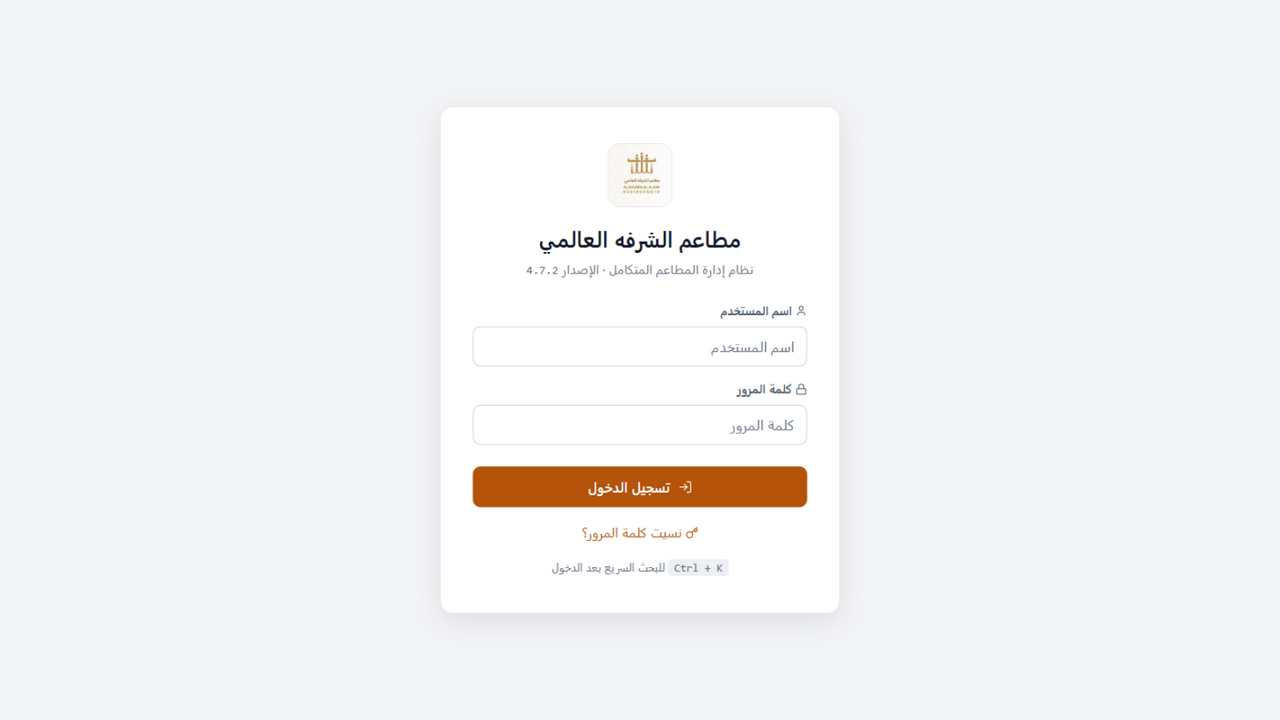
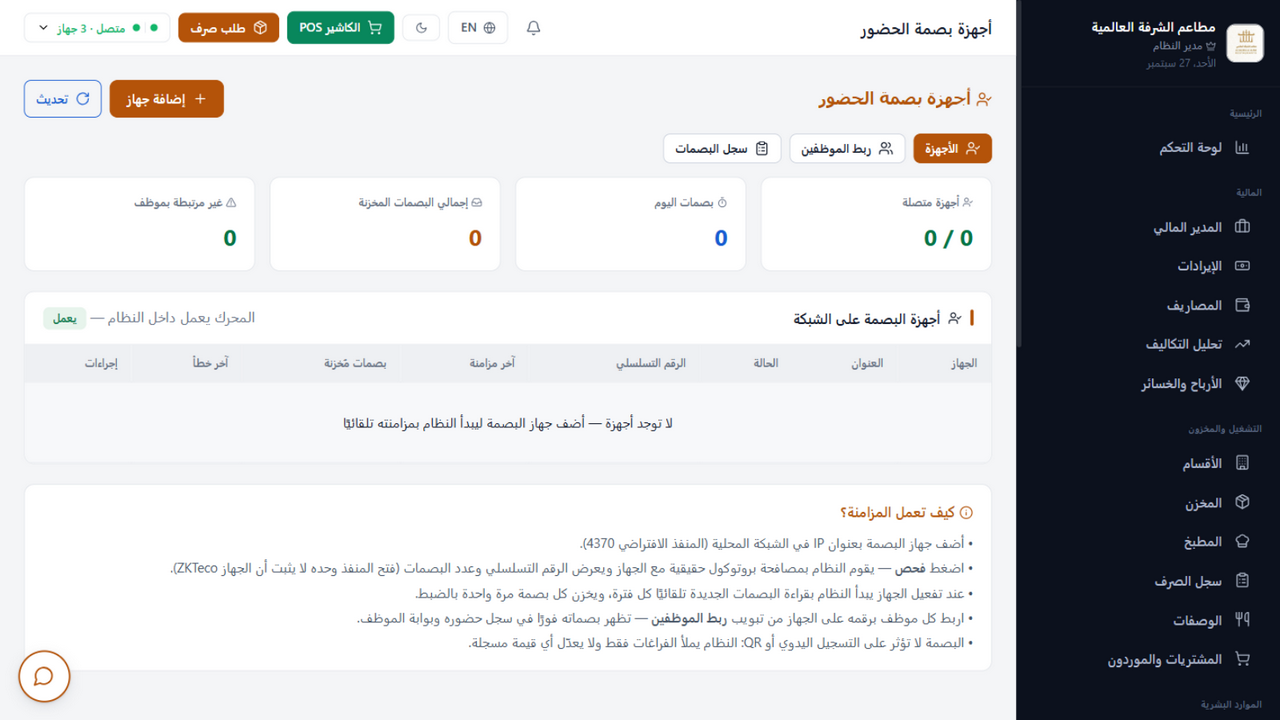
docs(migration): record extractions 005-010, cache-busting and eval-order rules

diff --git a/docs/esm-migration/MIGRATION_CHANGE_LOG.md b/docs/esm-migration/MIGRATION_CHANGE_LOG.md
@@ -75,4 +75,30 @@
 
 ---
 
-## EXTRACTION-005 — (التالي المخطط: core/state + core/api — لم يُنفذ بعد)
+## EXTRACTIONS 005–010 — الدفعة الكبيرة (العمود الفقري + أول وحدات المزايا)
+
+| # | الوحدة | المحتوى المنقول (verbatim مُتحقق) | الجسر | ملاحظات خاصة |
+|---|---|---|---|---|
+| 005 | `core/state.js` | `STATE` (36 مفتاحًا) + `PERSISTED_ENTITIES` (24) + `ROLE_ENTITY_EXCLUSIONS` — 40 سطرًا | BRIDGE-005 | أُزيل `window.STATE=STATE` من الوحدة (تأثير جانبي وقت التقييم يناقض التصميم — الجسر في main.js) |
+| 006 | `core/api.js` | `API_BASE` + `apiFetch` (50 سطرًا: مصادقة/مهلة 30ث/إعادة 429/دوران مفتاح) + `SERVER_CODE_AR` + `serverErrorInfo` — 74 سطرًا | BRIDGE-006 | **حسم قبل النقل:** `SERVER_CODE_AR` كان `const` غير مؤتمت العولمة — أُدرج في الوحدة وإلا انكسر جسر الأخطاء |
+| 007 | `core/config.js` | `CONFIG` | BRIDGE-007 | `DB_NAME/DB_VERSION` ميتان (استخدامان = إعلانهما) — تُركا مكانهما |
+| 009-أ | `core/config.js` (إضافة) | `ROLES` (11 سطرًا) | BRIDGE-007 | اكتُشف أثناء تدقيق 009: مستهلك من نطاق bulk-import — لو تُرك `const` في app.js لانكسر |
+| 008 | `features/smart-card.js` | 704 أسطر: البطاقة الذكية (توليد بصمة رقمية/QR) + عنقود تقارير الحضور المطبوعة (مجمّعة تاريخيًا بين نفس البنرات) — 29 تصديرًا | BRIDGE-008 (Object.assign) | سطر التصديرات المجمّع (6 تصديرات) استُبدل بالكامل |
+| 009 | `features/bulk-import.js` | 581 سطرًا: معالج الاستيراد الجماعي + التوليد التلقائي للمستخدمين — 25 تصديرًا | BRIDGE-009 | فشل تنفيذ أول بسبب مسار cwd خاطئ — أعيد من المسار الصحيح |
+| 010 | `features/zkteco.js` | 467 سطرًا: صفحة أجهزة البصمة + الربط + السجل — 20 تصديرًا | BRIDGE-010 | `zkPortalPunchHandler` (عقد realtime) بقي في app.js — يستدعي دوال الوحدة عبر الجسر |
+
+## الدرسان المعماريان من هذه الدفعة (مكتوبان كقواعد صلبة في main.js)
+
+1. **ترتيب التقييم:** بعض عبارات النطاقات المنقولة كانت تُنفَّذ وقت تقييم app.js بعد وجود STATE — الاستيراد الساكن في main.js يقيّمها *قبل* الجسور → انهيار كامل. **الحل:** استيراد ديناميكي لوحدات features بعد تثبيت جسور العمود الفقري، مع top-level await يحافظ على ترتيب سكربتات defer.
+2. **كسر الكاش شامل الإصدارات:** import specifier بلا `?v=` + كاش ذاكرة Chromium (لا Cache-Control من express.static) = وحدة قديمة صامتة → SyntaxError رسوم بيانية → شاشة دخول. **القاعدة:** كل specifier في main.js وكل وسم في index.html يتشاركان نفس `?v=` ويُرفع مع كل commit.
+
+**إصلاحان إضافيان أثناء الفحص:** حذف `loadMyBiometricPanel` من قائمة تصديرات zkteco (ليست top-level في النطاق — كان ينزف الرسم البياني كله) · أداة `audits/extract-helper.js` (مراسي + تدقيق معرفات حرة + نقل بايتي) صُنعت لتوحيد بقية الاستخراجات.
+
+## حالة ما بعد الدفعة (فحص حي شامل)
+
+boot=dashboard ✓ · spine كامل ✓ · features كاملة ✓ · apiFetch نداء حقيقي ✓ · **صفحة البصمة ترسم من الموديول** (ZKSTATE.tab=devices، شارة "يعمل") ✓ · realtime حي (toast الأجهزة) ✓ · تسجيل الدخول والجلسة سليمان ✓
+app.js: **10,038 سطرًا** (−2,315 من baseline) · 10 جسور موثقة · إصدار متزامن `4.7.131` / `CACHE_VERSION 4.7.25`
+
+---
+
+## EXTRACTION-011 — (التالي المخطط: صفحات الإيرادات/COST/P&L أو إكمال ADMIN spine — لم يُنفذ بعد)
